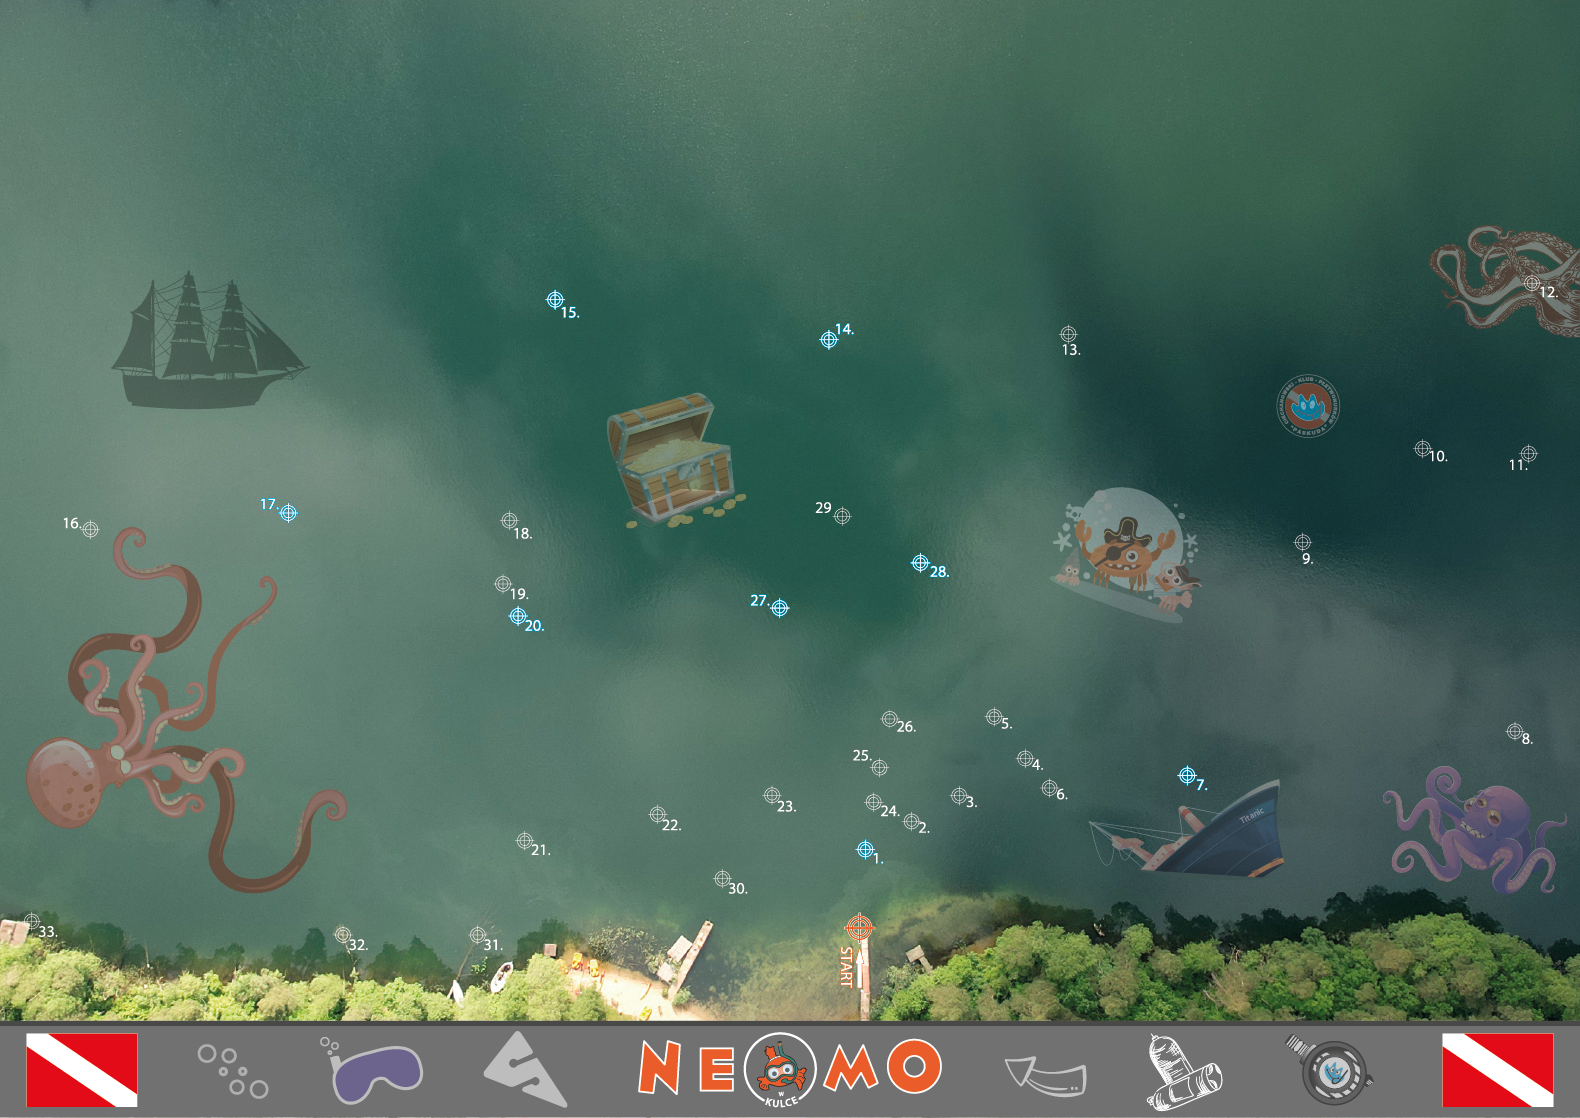
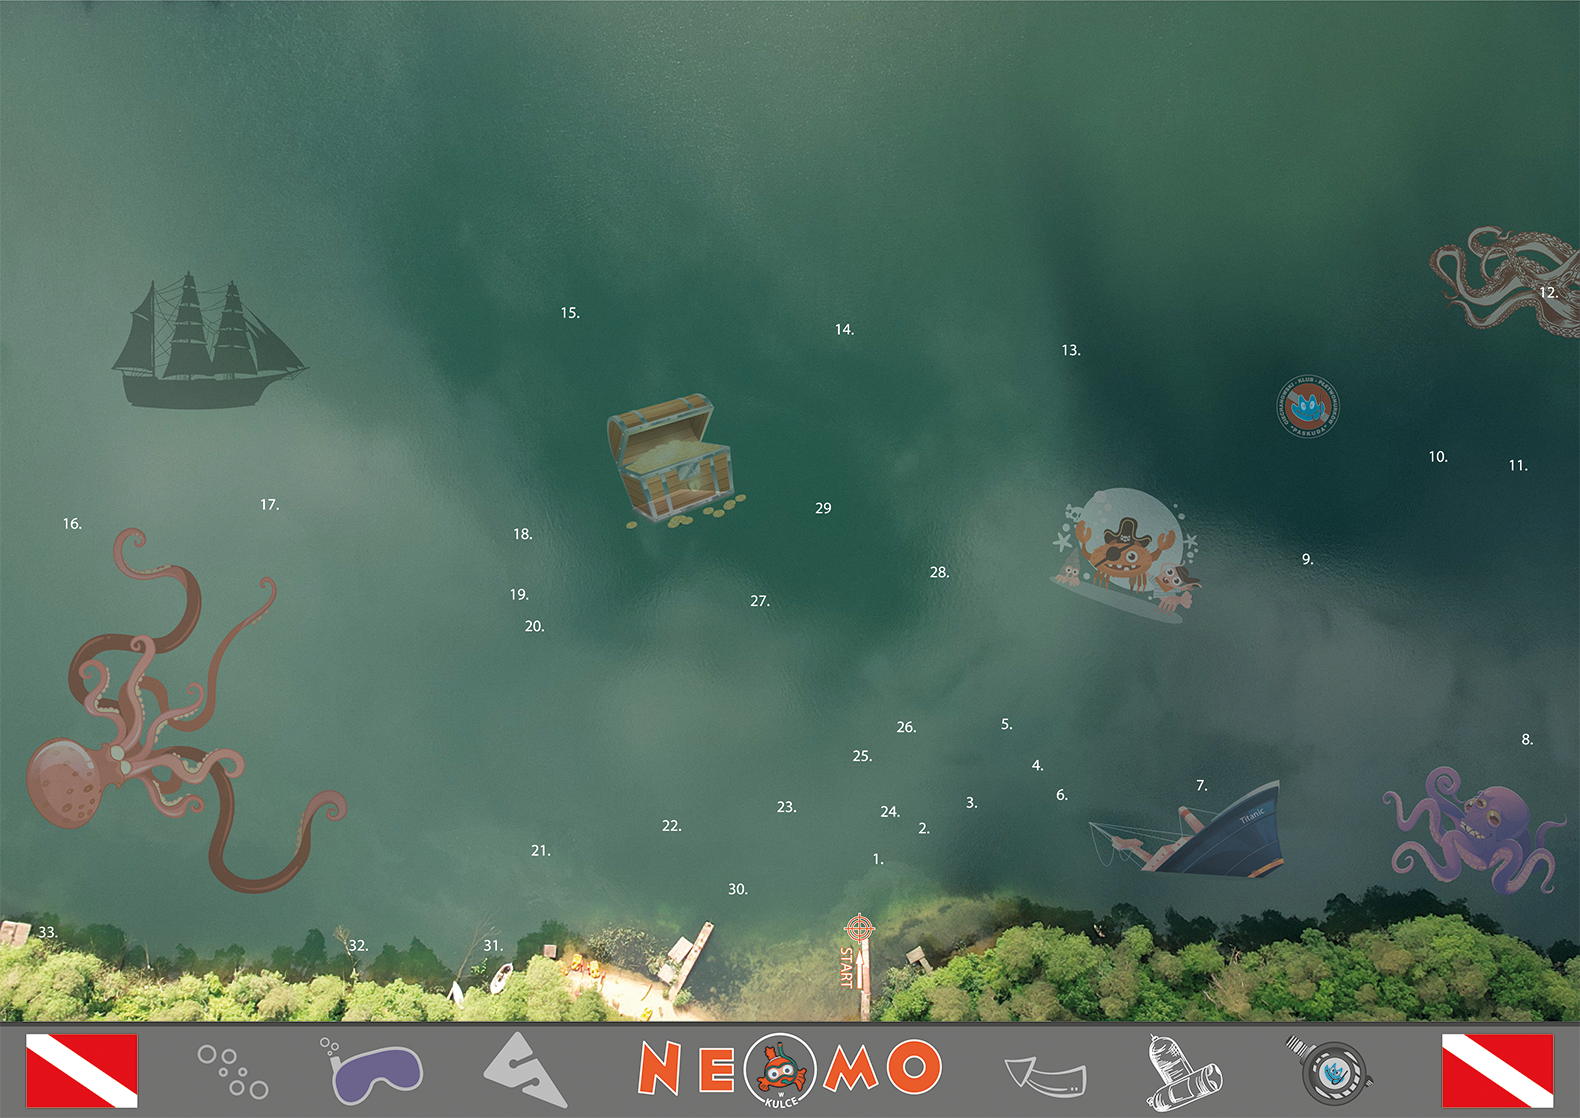
fin01

diff --git a/js/mapa.js b/js/mapa.js
@@ -8,9 +8,6 @@ function generateData() {
 		const isOnTheLeft = point.position.left < 10
 
 		container.innerHTML += `
-		<label data-name="point-label" class="point-label" style="left: ${point.position.left}%; top: ${
-			point.position.top + 3
-		}%">${point.id}. ${point.object}</label>
 		<button data-id=${point.id} id="point-${point.id}" class="point" type="button" style="left: ${
 			point.position.left
 		}%; top: ${point.position.top}%">+</button>
@@ -67,7 +64,11 @@ generateLegend()
 // funkcja ktora wywoluje popap po kliknieciu go
 
 function handleOnClick(event) {
+	event.stopPropagation()
 	const pointId = event.target.dataset.id
+	const popapContainers = document.querySelectorAll(`.popap-container`)
+	popapContainers.forEach(popup => popup.classList.remove('popap-container--is-visible'))
+
 	const popapContainer = document.querySelector(`.popap-container[data-id="${pointId}"]`)
 	popapContainer.classList.toggle('popap-container--is-visible')
 }
@@ -75,6 +76,13 @@ function handleOnClick(event) {
 // czeka na załadowanie strony oraz javascript ponizszy zapis i przypisuje EventHandler> OnClick do button
 
 window.addEventListener('load', function () {
+	const map = document.getElementById('map')
+
+	map.addEventListener('click', () => {
+		const popapContainers = document.querySelectorAll(`.popap-container`)
+		popapContainers.forEach(popup => popup.classList.remove('popap-container--is-visible'))
+	})
+
 	mapa.forEach(point => {
 		const button = document.querySelector(`.point[data-id="${point.id}"]`)
 		button.addEventListener('click', handleOnClick.bind(point.id))
@@ -84,9 +92,7 @@ window.addEventListener('load', function () {
 	})
 
 	const button = document.getElementById('poreczowki-button')
-	const buttonLabels = document.getElementById('poreczowki-labels')
 	const poreczowki = document.getElementById('poreczowki')
-	const labels = document.querySelectorAll('[data-name="point-label"]')
 
 	button.addEventListener('click', () => {
 		if (poreczowki.style.opacity === '1') {
@@ -94,16 +100,6 @@ window.addEventListener('load', function () {
 		} else {
 			poreczowki.style.opacity = '1'
 		}
-	})
-
-	buttonLabels.addEventListener('click', () => {
-		labels.forEach(label => {
-			if (label.style.opacity === '1') {
-				label.style.opacity = '0'
-			} else {
-				label.style.opacity = '1'
-			}
-		})
 	})
 })
 

diff --git a/css/style.css b/css/style.css
@@ -45,8 +45,8 @@ body {
   transition: opacity 0.3s;
 }
 .poreczowki .poreczowka-line {
-  stroke: blue;
-  stroke-width: 1px;
+  stroke: rgb(2, 192, 192);
+  stroke-width: 1.8px;
 }
 
 img {
@@ -62,18 +62,20 @@ img {
 }
 
 li {
-  text-transform: lowercase;
+  font-size: 11.6px;
   font-weight: bold;
-  cursor: pointer;
+  text-transform: capitalize;
 }
-li::marker {
-  font-style: italic;
-  color: black;
+li a {
+  text-decoration: none;
+  color: #333;
+  padding-left: 5px;
 }
 
-span {
-  color: black;
-  text-transform: uppercase;
+li::marker {
+  font-size: 11px;
+  color: magenta;
+  font-weight: bold;
 }
 
 .legenda-bg {
@@ -126,6 +128,8 @@ ol {
   top: 10%;
   width: 240px;
   transition: all 0.5s;
+  z-index: 5;
+  pointer-events: none;
 }
 .popap-container--is-visible {
   opacity: 1;
@@ -194,22 +198,37 @@ ol {
   box-shadow: 8px 8px 24px 0px rgba(3, 116, 245, 0.938);
 }
 
+.btnPaskuda {
+  position: absolute;
+  left: 80.8%;
+  top: 30.4%;
+  color: rgb(234, 0, 255);
+  text-decoration: none;
+  font-size: 130px;
+  cursor: pointer;
+  opacity: 0;
+  z-index: 10;
+}
+
 .point {
   opacity: 1;
-  color: blue;
+  color: rgb(197, 2, 181);
   position: absolute;
   transform: translate(-50%, 0%);
   left: 10%;
   top: 20%;
-  z-index: 2;
+  z-index: 1;
   background-color: transparent;
   border: 0;
   padding: 0;
   margin: 0;
-  font-size: 30px;
+  font-size: 36px;
+  text-shadow: 0 0 12px whitesmoke;
+  transition: color 0.3s;
 }
 .point:hover {
   cursor: pointer;
+  color: limegreen;
 }
 
 .point-label {
@@ -220,12 +239,23 @@ ol {
   font-weight: bold;
 }
 
-.btn {
-  position: absolute;
-  left: 81%;
-  top: 30.5%;
-  color: rgb(234, 0, 255);
-  text-decoration: none;
-  font-size: 130px;
-  opacity: 0;
+.btn-poreczowki {
+  margin-left: 150px;
+  color: #333;
+  font-size: 18px;
+  font-weight: bold;
+  letter-spacing: 1.2px;
+  width: 180px;
+  height: 50px;
+  border: none;
+  border-radius: 15px;
+  background-color: #1e7eeb;
+  cursor: pointer;
+  transition: color 0.4s, transform 0.4s, background-color 0.4s ease-in-out;
+}
+
+.btn-poreczowki:hover {
+  background-color: rgb(2, 182, 122);
+  transform: scale(0.88);
+  color: whitesmoke;
 }/*# sourceMappingURL=style.css.map */

diff --git a/sass/style.scss b/sass/style.scss
@@ -45,8 +45,8 @@ body {
 	transition: opacity 0.3s;
 
 	.poreczowka-line {
-		stroke: blue;
-		stroke-width: 1px;
+		stroke: rgb(2, 192, 192);
+		stroke-width: 1.8px;
 	}
 }
 
@@ -63,19 +63,21 @@ img {
 }
 
 li {
-	text-transform: lowercase;
+	font-size: 11.6px;
 	font-weight: bold;
-	cursor: pointer;
+	text-transform: capitalize;
 
-	&::marker {
-		font-style: italic;
-		color: black;
+	a {
+		text-decoration: none;
+		color: #333;
+		padding-left: 5px;
 	}
 }
 
-span {
-	color: black;
-	text-transform: uppercase;
+li::marker {
+	font-size: 11px;
+	color: magenta;
+	font-weight: bold;
 }
 
 .legenda-bg {
@@ -127,6 +129,8 @@ ol {
 	top: 10%;
 	width: 240px;
 	transition: all 0.5s;
+	z-index: 5;
+	pointer-events: none;
 
 	&--is-visible {
 		opacity: 1;
@@ -201,40 +205,65 @@ ol {
 	box-shadow: 8px 8px 24px 0px rgba(3, 116, 245, 0.938);
 }
 
+.btnPaskuda {
+	position: absolute;
+	left: 80.8%;
+	top: 30.4%;
+	color: rgb(234, 0, 255);
+	text-decoration: none;
+	font-size: 130px;
+	cursor: pointer;
+	opacity: 0;
+	z-index: 10;
+}
+
 .point {
 	opacity: 1;
-	color: blue;
+	color: rgb(197, 2, 181);
 	position: absolute;
 	transform: translate(-50%, 0%);
 	left: 10%;
 	top: 20%;
-	z-index: 2;
+	z-index: 1;
 	background-color: transparent;
 	border: 0;
 	padding: 0;
 	margin: 0;
-	font-size: 30px;
+	font-size: 36px;
+	text-shadow: 0 0 12px whitesmoke;
+	transition: color 0.3s;
 
 	&:hover {
 		cursor: pointer;
+		color: limegreen;
 	}
 }
 
 .point-label {
 	position: absolute;
 	transform: translate(-50%, 0%);
-
 	font-size: 14px;
 	text-transform: capitalize;
 	font-weight: bold;
 }
 
-.btn {
-	position: absolute;
-	left: 81%;
-	top: 30.5%;
-	color: rgb(234, 0, 255);
-	text-decoration: none;
-	font-size: 130px;
-	opacity: 0;
+.btn-poreczowki {
+	margin-left: 150px;
+	color: #333;
+	font-size: 18px;
+	font-weight: bold;
+	letter-spacing: 1.2px;
+	width: 180px;
+	height: 50px;
+	border: none;
+	border-radius: 15px;
+	background-color: #1e7eeb;
+	cursor: pointer;
+	transition: color 0.4s, transform 0.4s, background-color 0.4s ease-in-out;
+}
+
+.btn-poreczowki:hover {
+	background-color: rgb(2, 182, 122);
+	transform: scale(0.88);
+	color: whitesmoke;
 }

diff --git a/index.html b/index.html
@@ -16,7 +16,7 @@
     <div class="container">
         <div class='oversize'>
             <div class="logo">
-                <a target="_blank" href="http://nemowkulce.pl/"><svg id="Layer_1" data-name="Layer 1"
+                <a href="http://nemowkulce.pl/" target="_blank"><svg id="Layer_1" data-name="Layer 1"
                         xmlns="http://www.w3.org/2000/svg" xmlns:xlink="http://www.w3.org/1999/xlink"
                         viewBox="0 0 228.87 56.39">
                         <defs>
@@ -150,8 +150,7 @@
                             d="M108.23,9.46a3.17,3.17,0,0,1-1.74.58,2.51,2.51,0,0,1-.75-.12c0-.11,0-.21,0-.31a2.54,2.54,0,0,0,2.44-.43s.05,0,.08,0A3,3,0,0,0,108.23,9.46Z" />
                     </svg>
                 </a>
-                <button id="poreczowki-button">Poręczówki</button>
-                <button id="poreczowki-labels">Labelki</button>
+                <button id="poreczowki-button" class="btn-poreczowki">Poręczówki</button>
 
             </div>
             <div class="legenda-bg">
@@ -166,6 +165,7 @@
 
         </div>
         <div id="map" class="map">
+            <a href="https://www.facebook.com/PaskudaCiechanow/" class="btnPaskuda" target="_blank">+</a>
             <svg id="poreczowki" class="poreczowki" xmlns="http://www.w3.org/2000/svg" viewBox="0 0 1190.55 841.89">
                 <line class="poreczowka-line" x1="651.97" y1="640.11" x2="647.71" y2="699.27" />
                 <line class="poreczowka-line" x1="651.97" y1="640.11" x2="686.8" y2="618.98" />
@@ -212,7 +212,6 @@
                 <line class="poreczowka-line" x1="217.27" y1="386.55" x2="23.94" y2="694.34" />
             </svg>
             <img src="./src/mapa-czysta.png" alt="mapa nurkowiska">
-            <a class="btn" target="_blank" href="https://www.facebook.com/PaskudaCiechanow/">+</a>
 
 
         </div>

diff --git a/js/data.js b/js/data.js
@@ -387,7 +387,7 @@ const mapa = [
 		id: 33,
 		image: './src/test.jpg',
 		object: 'pomost ZHP',
-		depth: '1m',
+		depth: '0m',
 		timeFromStart: '??',
 		danger: 'brak',
 		position: {

diff --git a/sass/_reset.scss b/sass/_reset.scss
@@ -3,4 +3,3 @@
 	margin: 0;
 	padding: 0;
 }
-
